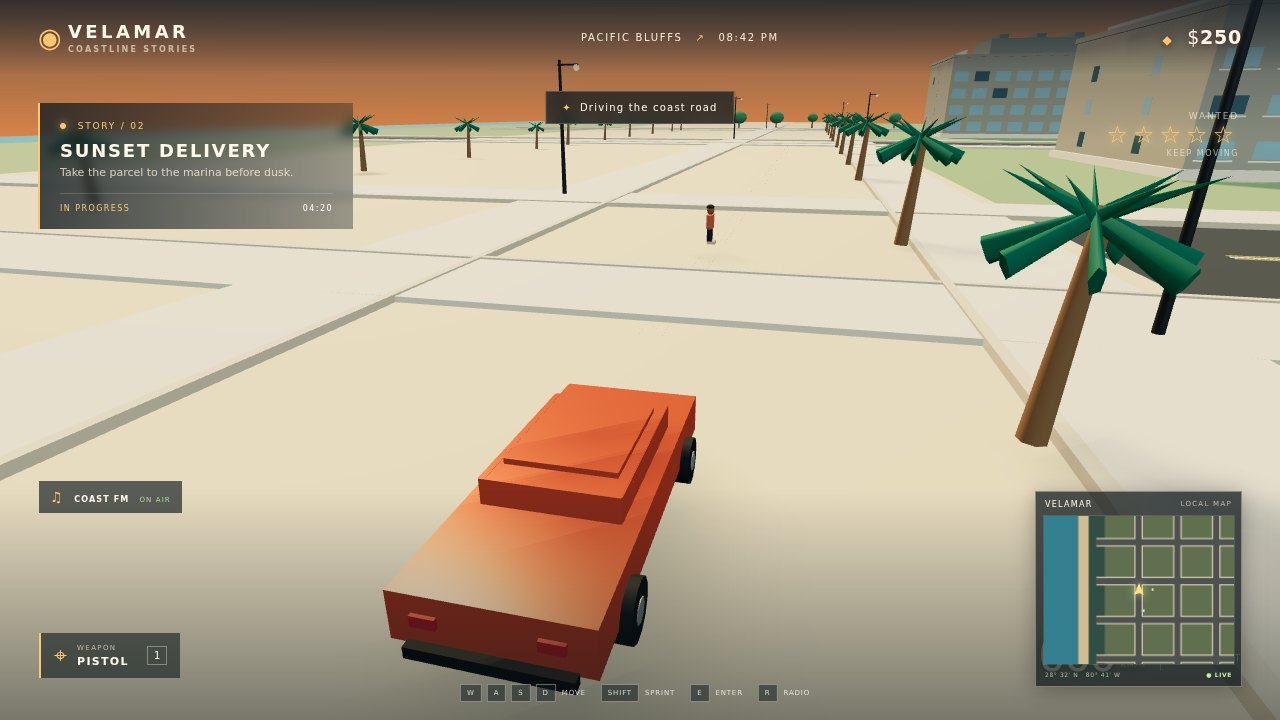
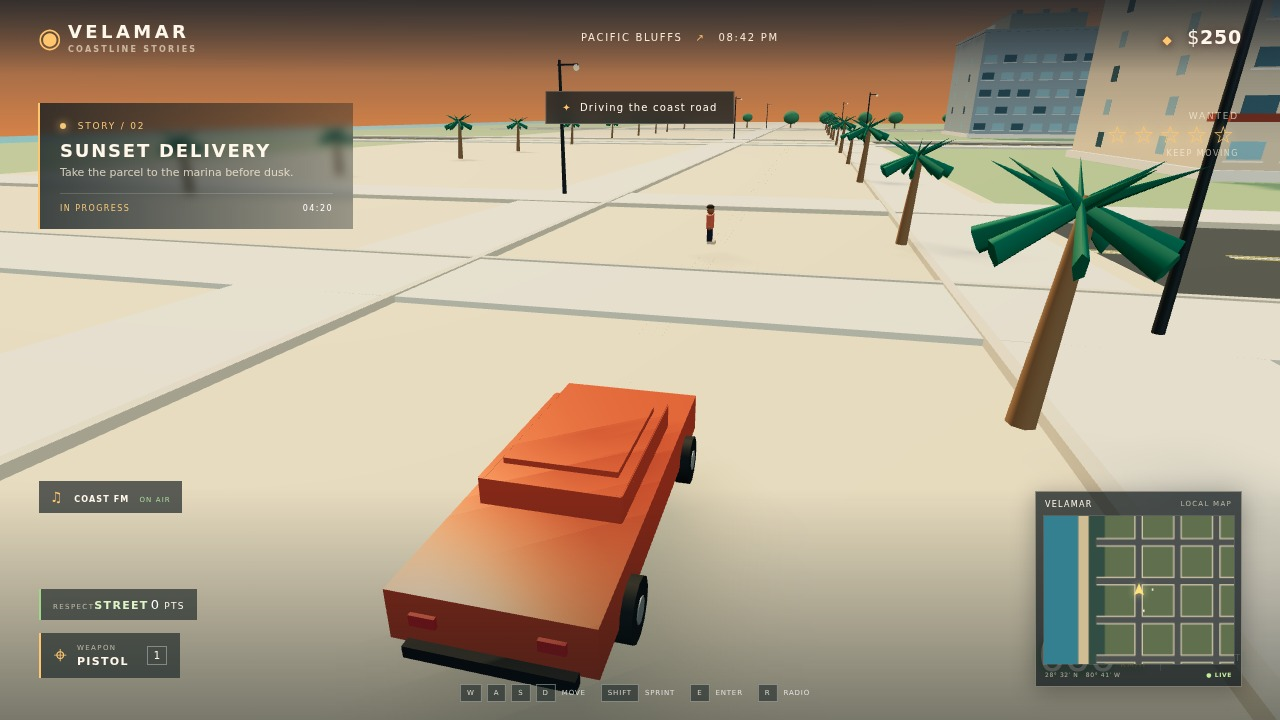
Refine chase helicopter framing and recapture screenshots
Adjust chase camera and helicopter staging for better in-frame visibility
and recapture deterministic screenshots. Remove unused CSS font import
that blocked headless screenshot capture.

diff --git a/game/style.css b/game/style.css
@@ -1,4 +1,3 @@
-@import url('data:text/css,');
 :root{font-family:Inter,ui-sans-serif,system-ui,-apple-system,"Segoe UI",sans-serif;color:#fff8ea;font-synthesis:none;--cream:#fff4dd;--gold:#ffc66d;--dim:rgba(255,244,221,.62)}*{box-sizing:border-box}html,body{margin:0;width:100%;height:100%;overflow:hidden;background:#d9a176}#world{position:fixed;inset:0;width:100%;height:100%;display:block}#vignette{position:fixed;inset:0;pointer-events:none;background:linear-gradient(180deg,rgba(24,27,38,.40),transparent 20%,transparent 68%,rgba(11,22,24,.50));z-index:1}.topbar{position:fixed;top:0;left:0;right:0;height:74px;display:flex;align-items:center;padding:0 38px;background:linear-gradient(180deg,rgba(20,28,34,.68),transparent);z-index:3}.brand{display:grid;grid-template-columns:30px auto;align-items:center;font-size:18px;letter-spacing:.19em;font-weight:850}.sunmark{grid-row:span 2;font-size:27px;color:var(--gold)}.brand small{font-size:8px;letter-spacing:.28em;color:var(--dim);margin-top:3px}.district{margin:auto;font-size:10px;letter-spacing:.17em;color:#f9e9d3}.district span{color:var(--gold);margin:0 8px}.wallet{font-size:19px;letter-spacing:.04em;text-shadow:0 1px 8px #422}.wallet span{font-size:12px;color:var(--gold);margin-right:8px}.mission-card{position:fixed;z-index:3;top:103px;left:38px;width:315px;padding:18px 20px 16px;border-left:2px solid var(--gold);background:linear-gradient(90deg,rgba(18,28,33,.79),rgba(18,28,33,.37));backdrop-filter:blur(5px)}.eyebrow{font-size:9px;letter-spacing:.2em;color:#f5c779}.eyebrow i{display:inline-block;width:6px;height:6px;background:#f5c779;border-radius:50%;margin-right:7px;box-shadow:0 0 9px #f5c779}.mission-card h1{font-size:18px;letter-spacing:.1em;margin:9px 0 5px}.mission-card p{font-size:11px;color:rgba(255,244,221,.74);margin:0}.mission-foot{display:flex;justify-content:space-between;border-top:1px solid rgba(255,255,255,.16);margin-top:14px;padding-top:10px;font-size:8px;letter-spacing:.18em;color:#f5c779}.mission-foot span:last-child{color:#fff}.toast{position:fixed;z-index:4;top:91px;left:50%;transform:translateX(-50%);padding:10px 16px;background:rgba(15,27,32,.74);border:1px solid rgba(255,255,255,.18);font-size:10px;letter-spacing:.12em;backdrop-filter:blur(8px);white-space:nowrap}.toast span:first-child{color:var(--gold);margin-right:8px}.wanted{display:none;position:fixed;z-index:3;top:111px;right:41px;text-align:right}.wanted-label{font-size:9px;letter-spacing:.2em;display:block;color:var(--dim)}.stars{font-size:24px;letter-spacing:5px;color:var(--gold);text-shadow:0 0 10px #fd9}.wanted-note{display:block;font-size:8px;letter-spacing:.19em;color:var(--dim)}.vehicle-readout{display:none;position:fixed;z-index:3;right:38px;bottom:39px;align-items:center;text-shadow:0 2px 8px #172}.speed{font-size:44px;font-weight:300;letter-spacing:-.06em}.speed-unit{font-size:8px;letter-spacing:.16em;margin:17px 14px 0 6px;color:var(--gold)}.divider{height:31px;border-left:1px solid rgba(255,255,255,.5);margin-right:13px}.vehicle-readout #vehicle-name{font-size:9px;letter-spacing:.18em;margin-top:4px}.weapon{position:fixed;z-index:3;left:39px;bottom:42px;display:flex;align-items:center;gap:10px;padding:9px 13px;background:rgba(18,29,31,.62);border-left:2px solid var(--gold)}.weapon-icon{font-size:23px;color:var(--gold)}.weapon small,.weapon b{display:block}.weapon small{font-size:7px;letter-spacing:.2em;color:var(--dim)}.weapon b{font-size:11px;letter-spacing:.12em;margin-top:3px}.weapon-key{font-size:10px;border:1px solid rgba(255,255,255,.35);padding:3px 6px;margin-left:8px}
 .respect-meter{position:fixed;z-index:3;left:39px;bottom:100px;display:flex;align-items:center;gap:8px;padding:8px 12px;background:rgba(18,29,31,.62);border-left:2px solid #9fd68a;font-size:9px;letter-spacing:.14em}
 .respect-meter small{font-size:7px;color:var(--dim);letter-spacing:.2em}

diff --git a/game/src/entities/shot-staging.js b/game/src/entities/shot-staging.js
@@ -64,10 +64,11 @@ export function stageScene(name, { scene, player, traffic, pedestrians, missions
       id: 70002, x: 96.1, z: 275.4, heading: -0.06, siren: 1.1,
     });
 
-    // Helicopter far and small in the upper sky, offset to the side so the full
-    // silhouette (body, tail, rotors) reads clearly without covering the road/city.
+    // Helicopter in the upper sky, offset to the side so the full silhouette
+    // (body, tail, rotors) reads clearly without covering the road/city.
+    // Positioned fully in frame with margin from top edge, moderate scale.
     stageHelicopter(traffic, scene, {
-      x: 97.5, y: 11.8, z: 256, heading: 0.5, scale: 1.45,
+      x: 96.8, y: 9.4, z: 256, heading: 0.45, scale: 2.2,
     });
 
     cameraRig.stageShot('chase', scene, traffic, missions);

diff --git a/game/src/systems/camera-rig.js b/game/src/systems/camera-rig.js
@@ -56,8 +56,8 @@ export class CameraRig {
     } else if (name === 'chase') {
       // Chase framing tilted up so sky fills the upper frame and the helicopter is clearly visible,
       // while keeping player car large and trailing police in view.
-      target = new THREE.Vector3(p.position.x + 0.1, 3.15, p.position.z - 1.0);
-      offset = new THREE.Vector3(-1.3, 2.6, 9.1);
+      target = new THREE.Vector3(p.position.x + 0.1, 3.25, p.position.z - 0.8);
+      offset = new THREE.Vector3(-1.2, 2.45, 9.4);
       fov = 58;
     } else if (name === 'mission') {
       target = new THREE.Vector3(p.position.x, 2.2, p.position.z - 4.5);
